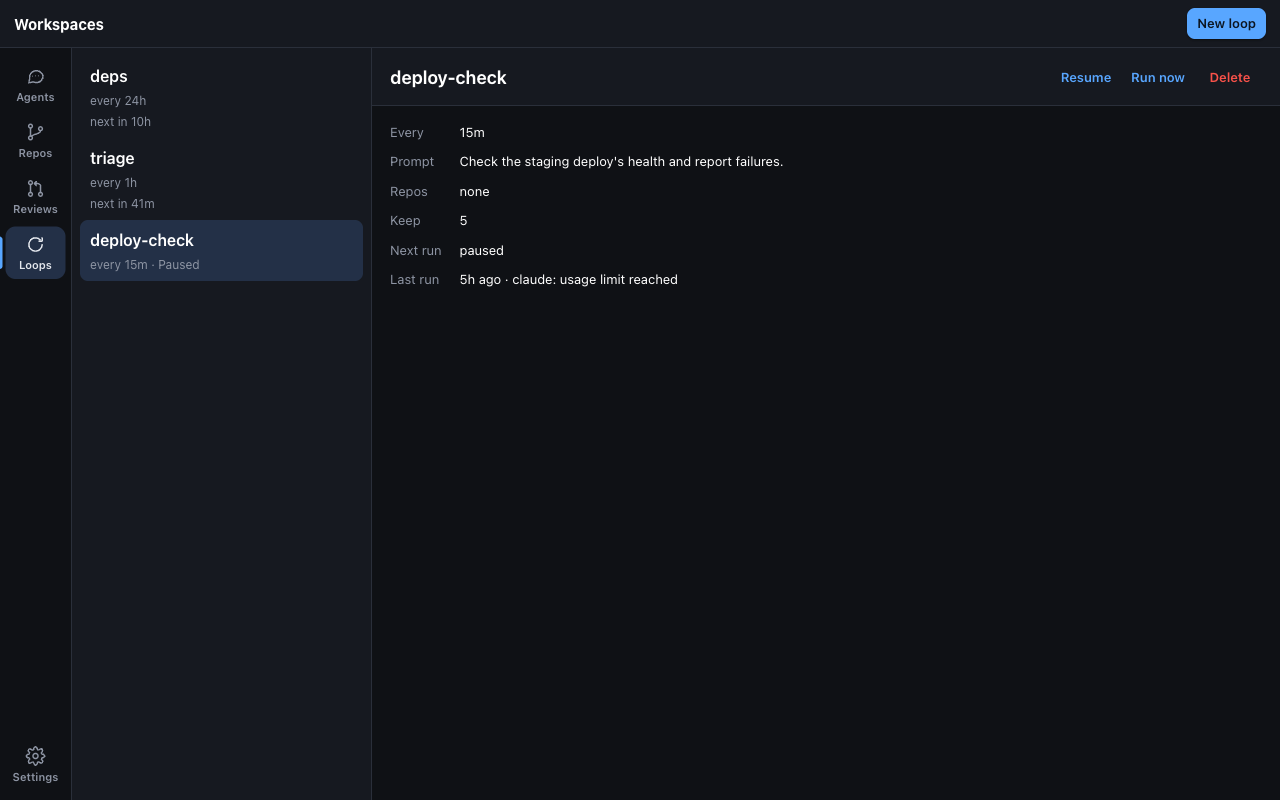
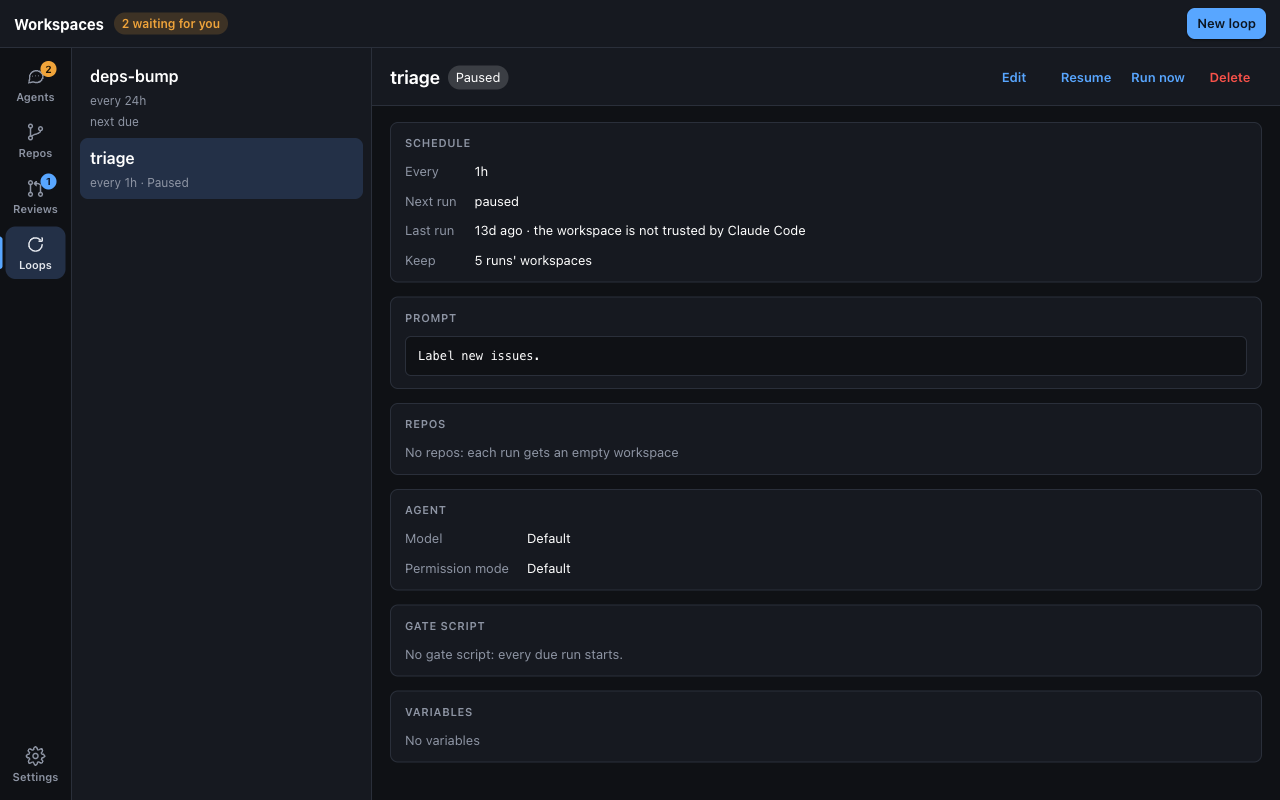
docs: update Loops screenshots for edit and structured forms
Claude-Session: https://claude.ai/code/session_01Pd5ZtdyMq44EaP8R7Vkyt6

diff --git a/desktop/README.md b/desktop/README.md
@@ -132,19 +132,20 @@ backend every 5 minutes by default
 | **A repo's Pull request reviews card, in Repos** | **Renaming a workspace** |
 | ![](docs/repos-reviews.png) | ![](docs/rename.png) |
 
-![A loop that starts an agent every day, in Loops](docs/loops.png)
+![A loop's detail view: Schedule, Prompt, Repos, Agent, Gate script and Variables cards](docs/loops.png)
 
 A loop is edited with **Edit** in its header, in the same form that adds it.
+The prompt and the gate script show in scrollable monospace blocks.
 
-| **Adding a loop** | **A paused loop whose last run failed** |
+| **Editing a loop** | **Choosing the period** |
 | --- | --- |
-| ![](docs/loops-new.png) | ![](docs/loops-paused.png) |
+| ![](docs/loops-edit.png) | ![](docs/loops-edit-period.png) |
+| **The gate script and variables, in the form** | **Adding a loop** |
+| ![](docs/loops-edit-script.png) | ![](docs/loops-new.png) |
 
-![A loop whose script lists outdated modules, passed to the prompt as {{.Stdout}} next to its variables](docs/loops-script.png)
-
-| **Adding a loop with a script and a variable** | **A loop whose last script check skipped the run** |
+| **A loop's gate script, last check and variables** | **A paused loop with no gate script** |
 | --- | --- |
-| ![](docs/loops-new-script.png) | ![](docs/loops-skipped.png) |
+| ![](docs/loops-script.png) | ![](docs/loops-paused.png) |
 
 The screenshots use sample data.
 
